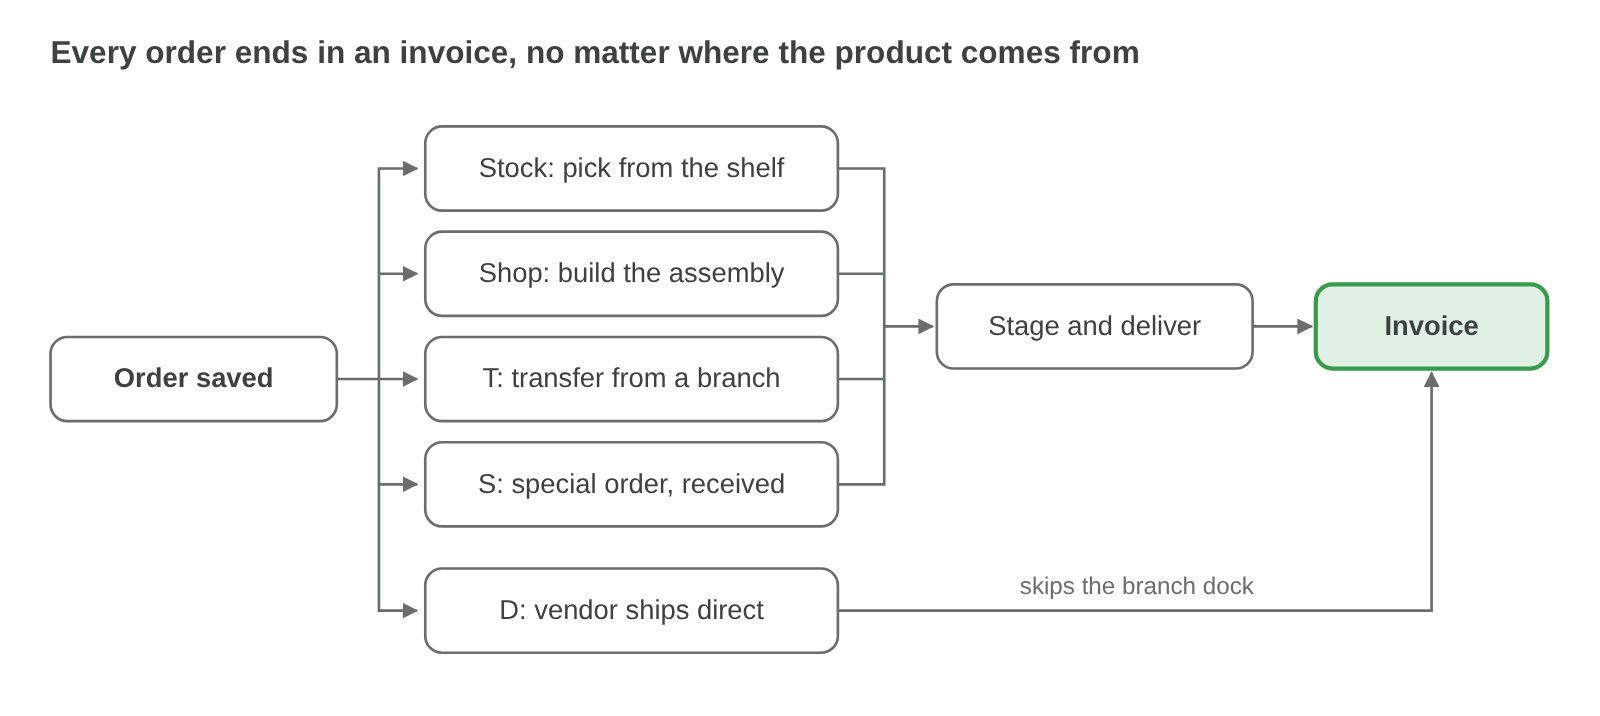
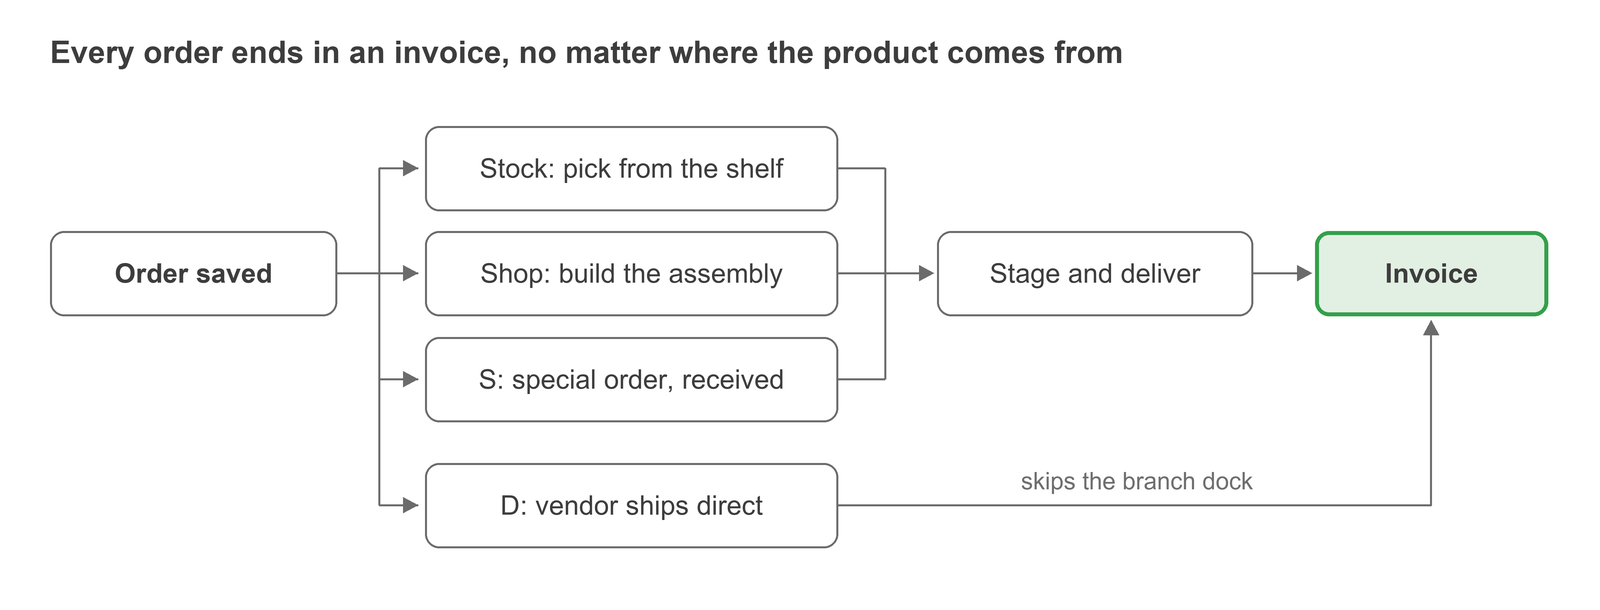
Redraw the order sourcing diagram without the transfer path
Adds the script that draws it to images/diagram-sources.

diff --git a/images/diagram-sources/distributor-business-6.py b/images/diagram-sources/distributor-business-6.py
@@ -1,0 +1,63 @@
+# Draws public/img/modules/distributor-business-6.png (order sourcing diagram).
+# Run from the repo root:  python images/diagram-sources/distributor-business-6.py
+from PIL import Image, ImageDraw, ImageFont
+
+S = 3                      # supersample factor for smooth edges
+W, H = 1600, 610
+LINE, TEXT, SUB = (107, 107, 107), (61, 61, 61), (110, 110, 110)
+GREEN, GREEN_FILL = (51, 160, 74), (226, 239, 227)
+REG, BOLD = "C:/Windows/Fonts/arial.ttf", "C:/Windows/Fonts/arialbd.ttf"
+
+im = Image.new("RGB", (W * S, H * S), "white")
+d = ImageDraw.Draw(im)
+font = lambda path, px: ImageFont.truetype(path, px * S)
+P = lambda *v: [x * S for x in v]
+
+
+def box(x0, y0, x1, y1, label, bold=False, green=False):
+    d.rounded_rectangle(P(x0, y0, x1, y1), radius=14 * S,
+                        fill=GREEN_FILL if green else "white",
+                        outline=GREEN if green else LINE, width=(4 if green else 2) * S)
+    d.text(P((x0 + x1) / 2, (y0 + y1) / 2), label, fill=TEXT, anchor="mm",
+           font=font(BOLD if bold else REG, 27))
+
+
+def line(*pts):
+    d.line(P(*pts), fill=LINE, width=2 * S, joint="curve")
+
+
+def arrow(x, y, direction):
+    a = 8
+    tri = {"right": [(x, y), (x - 15, y - a), (x - 15, y + a)],
+           "up": [(x, y), (x - a, y + 15), (x + a, y + 15)]}[direction]
+    d.polygon([c * S for p in tri for c in p], fill=LINE)
+
+
+d.text(P(50, 52), "Every order ends in an invoice, no matter where the product comes from",
+       fill=TEXT, anchor="lm", font=font(BOLD, 31))
+
+rows = [(168, "Stock: pick from the shelf"), (273, "Shop: build the assembly"),
+        (379, "S: special order, received")]
+DIRECT = 505
+MID = 273
+
+box(50, MID - 42, 337, MID + 43, "Order saved", bold=True)
+line(337, MID, 379, MID)
+line(379, rows[0][0], 379, DIRECT)                 # trunk out of the order
+for y, label in rows:
+    line(379, y, 418, y); arrow(418, y, "right")
+    box(425, y - 42, 838, y + 43, label)
+    line(838, y, 885, y)
+line(885, rows[0][0], 885, rows[-1][0])            # merge of the branch paths
+line(885, MID, 930, MID); arrow(934, MID, "right")
+box(937, MID - 42, 1253, MID + 43, "Stage and deliver")
+line(1253, MID, 1308, MID); arrow(1312, MID, "right")
+box(1315, MID - 42, 1548, MID + 43, "Invoice", bold=True, green=True)
+
+line(379, DIRECT, 418, DIRECT); arrow(418, DIRECT, "right")
+box(425, DIRECT - 42, 838, DIRECT + 43, "D: vendor ships direct")
+line(838, DIRECT, 1431, DIRECT, 1431, MID + 62); arrow(1431, MID + 47, "up")
+d.text(P(1137, DIRECT - 24), "skips the branch dock", fill=SUB, anchor="mm", font=font(REG, 24))
+
+im.resize((W, H), Image.LANCZOS).save("public/img/modules/distributor-business-6.png", optimize=True)
+print("saved")
